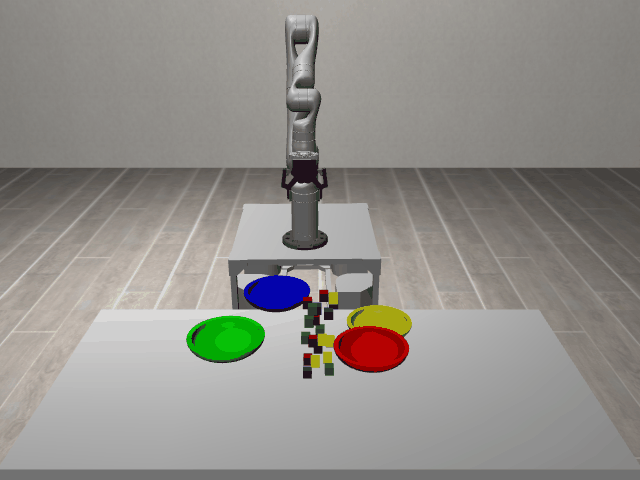
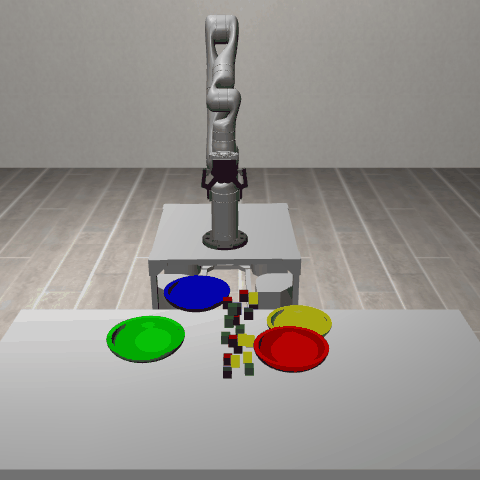
wip

diff --git a/generate_pages.py b/generate_pages.py
@@ -129,12 +129,23 @@ def categorize_environment(env_name):
         return "Dynamic 2D" if is_dynamic else "Kinematic 2D"
 
 
-def extract_first_frame_as_png(gif_path, png_path):
-    """Extract the first frame of a GIF and save as PNG."""
+def extract_first_frame_as_png(gif_path, png_path, crop_square=False):
+    """Extract the first frame of a GIF and save as PNG.
+
+    If crop_square=True, crop to a centered square.
+    """
     try:
         with Image.open(gif_path) as img:
             img.seek(0)
             frame = img.convert('RGBA')
+
+            if crop_square:
+                width, height = frame.size
+                size = min(width, height)
+                left = (width - size) // 2
+                top = (height - size) // 2
+                frame = frame.crop((left, top, left + size, top + size))
+
             frame.save(png_path, 'PNG')
             return True
     except Exception as e:
@@ -612,7 +623,9 @@ def main():
         hero_gif = group_data.get('hero_gif')
         if hero_gif and hero_gif.exists():
             png_path = thumbnails_dir / f'{group_name}.png'
-            if extract_first_frame_as_png(hero_gif, png_path):
+            # Crop Dynamic 3D thumbnails to square
+            crop_square = group_data.get('category') == 'Dynamic 3D'
+            if extract_first_frame_as_png(hero_gif, png_path, crop_square=crop_square):
                 png_count += 1
             # Set URLs for use in templates (relative to group page at depth=2)
             group_data['hero_gif_url'] = f'../../prpl-mono/prbench/docs/envs/assets/group_gifs/{group_name}.gif'
